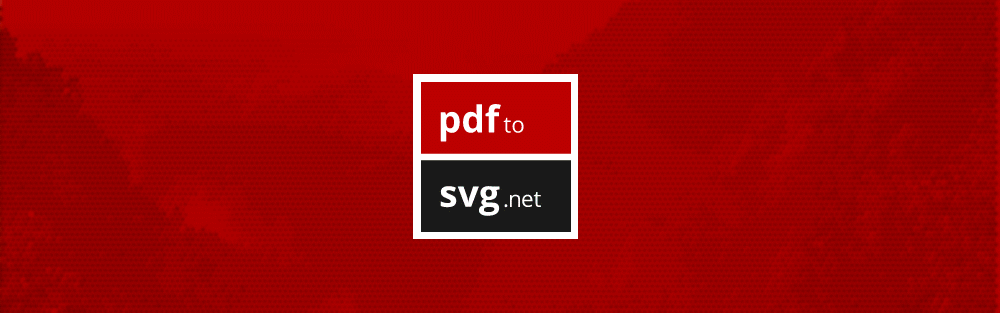
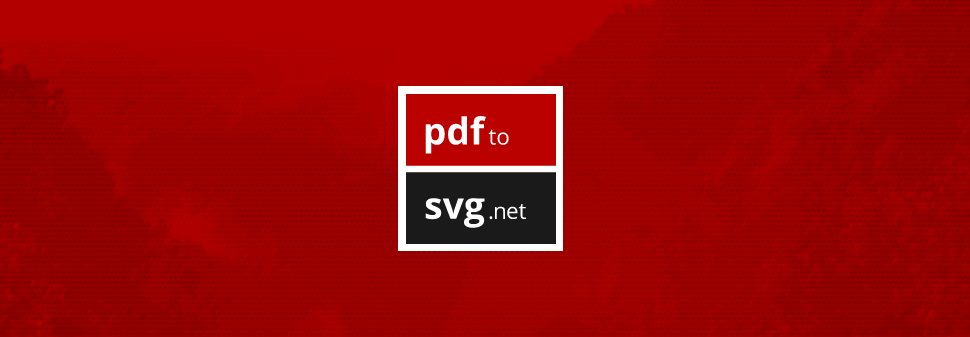
Documentation.

diff --git a/docs/images/command-line-usage.md b/docs/images/command-line-usage.md
@@ -1,0 +1,50 @@
+# Command line usage
+
+There is a command line tool for PdfToSvg.NET that can be used for converting PDF files to SVG.
+
+[**Download latest Windows binaries**](https://github.com/dmester/pdftosvg.net/releases/latest)
+
+(not yet released)
+
+.NET Framework 4.0 is required to run the tool.
+
+## Usage
+```
+pdftosvg.exe <input> [<output>] [<pages>]
+```
+
+## Options
+
+### `<input>`
+Path to the input PDF file.
+
+### `<output>`
+Path to the output SVG file(s). A page number will be appended to the filename.
+
+Default: Same as `<input>`, but with `.svg` as extension.
+
+### `<pages>`
+Pages to convert.
+
+Syntax:
+
+| Example  | Description                   |
+| -------- | ----------------------------- |
+| `12..15` | Converts page 12 to 15.       |
+| `12,15`  | Converts page 12 and 15.      |
+| `12..`   | Converts page 12 and forward. |
+| `..15`   | Converts page 1 to 15.        |
+
+Default: all pages
+
+## Examples
+
+```
+pdftosvg.exe input.pdf output.svg 1..2,9
+```
+
+Converts page 1, 2 and 9 from `input.pdf` to the output files:
+
+* `output-1.svg`
+* `output-2.svg`
+* `output-9.svg`

diff --git a/README.md b/README.md
@@ -1,12 +1,20 @@
 <div align="center">
-    <img src="docs/images/banner.png" alt="PdfToSvg.NET Logo" width="1000" height="313" style="width: 100%">
+    <img src="docs/images/banner.png" alt="PdfToSvg.NET Logo" style="width: 100%">
 </div>
 <div align="center">
+
 [![Tests](https://img.shields.io/github/workflow/status/dmester/pdftosvg.net/Build%20and%20test/master?style=flat-square)](https://github.com/dmester/pdftosvg.net/actions)
 [![NuGet](https://img.shields.io/nuget/vpre/PdfToSvg.NET?style=flat-square)](https://www.nuget.org/packages/PdfToSvg.NET/)
 [![License MIT](https://img.shields.io/badge/license-MIT-green.svg?style=flat-square)](https://github.com/dmester/pdftosvg.net/blob/master/LICENSE)
+
+</div>
+<div align="center">
+
+[**Online demo**](https://pdftosvg.net)
+
 </div>
 
+# PdfToSvg.NET
 Fully managed library for converting PDF files to SVG. Potential usage is embedding PDFs on your site without the need of loading a PDF reader.
 
 ## State

diff --git a/docs/images/getting-started.md b/docs/images/getting-started.md
@@ -1,0 +1,24 @@
+# Getting started
+
+The easiest way of getting started with PdfToSvg.NET is by installing the NuGet package.
+
+```
+PM> Install-Package PdfToSvg.NET
+```
+
+Open a PDF document by calling `PdfDocument.Open`. Call `SaveAsSvg()` on each page to convert it to an SVG file.
+
+```csharp
+using (var doc = PdfDocument.Open("input.pdf"))
+{
+    var pageIndex = 0;
+
+    foreach (var page in doc.Pages)
+    {
+        page.SaveAsSvg($"output-{pageIndex++}.svg");
+    }
+}
+```
+
+Note that if you parse the XML returned from PdfToSvg.NET, you need to preserve space and not add indentation.
+Otherwise text will not be rendered correctly in the modified markup.
